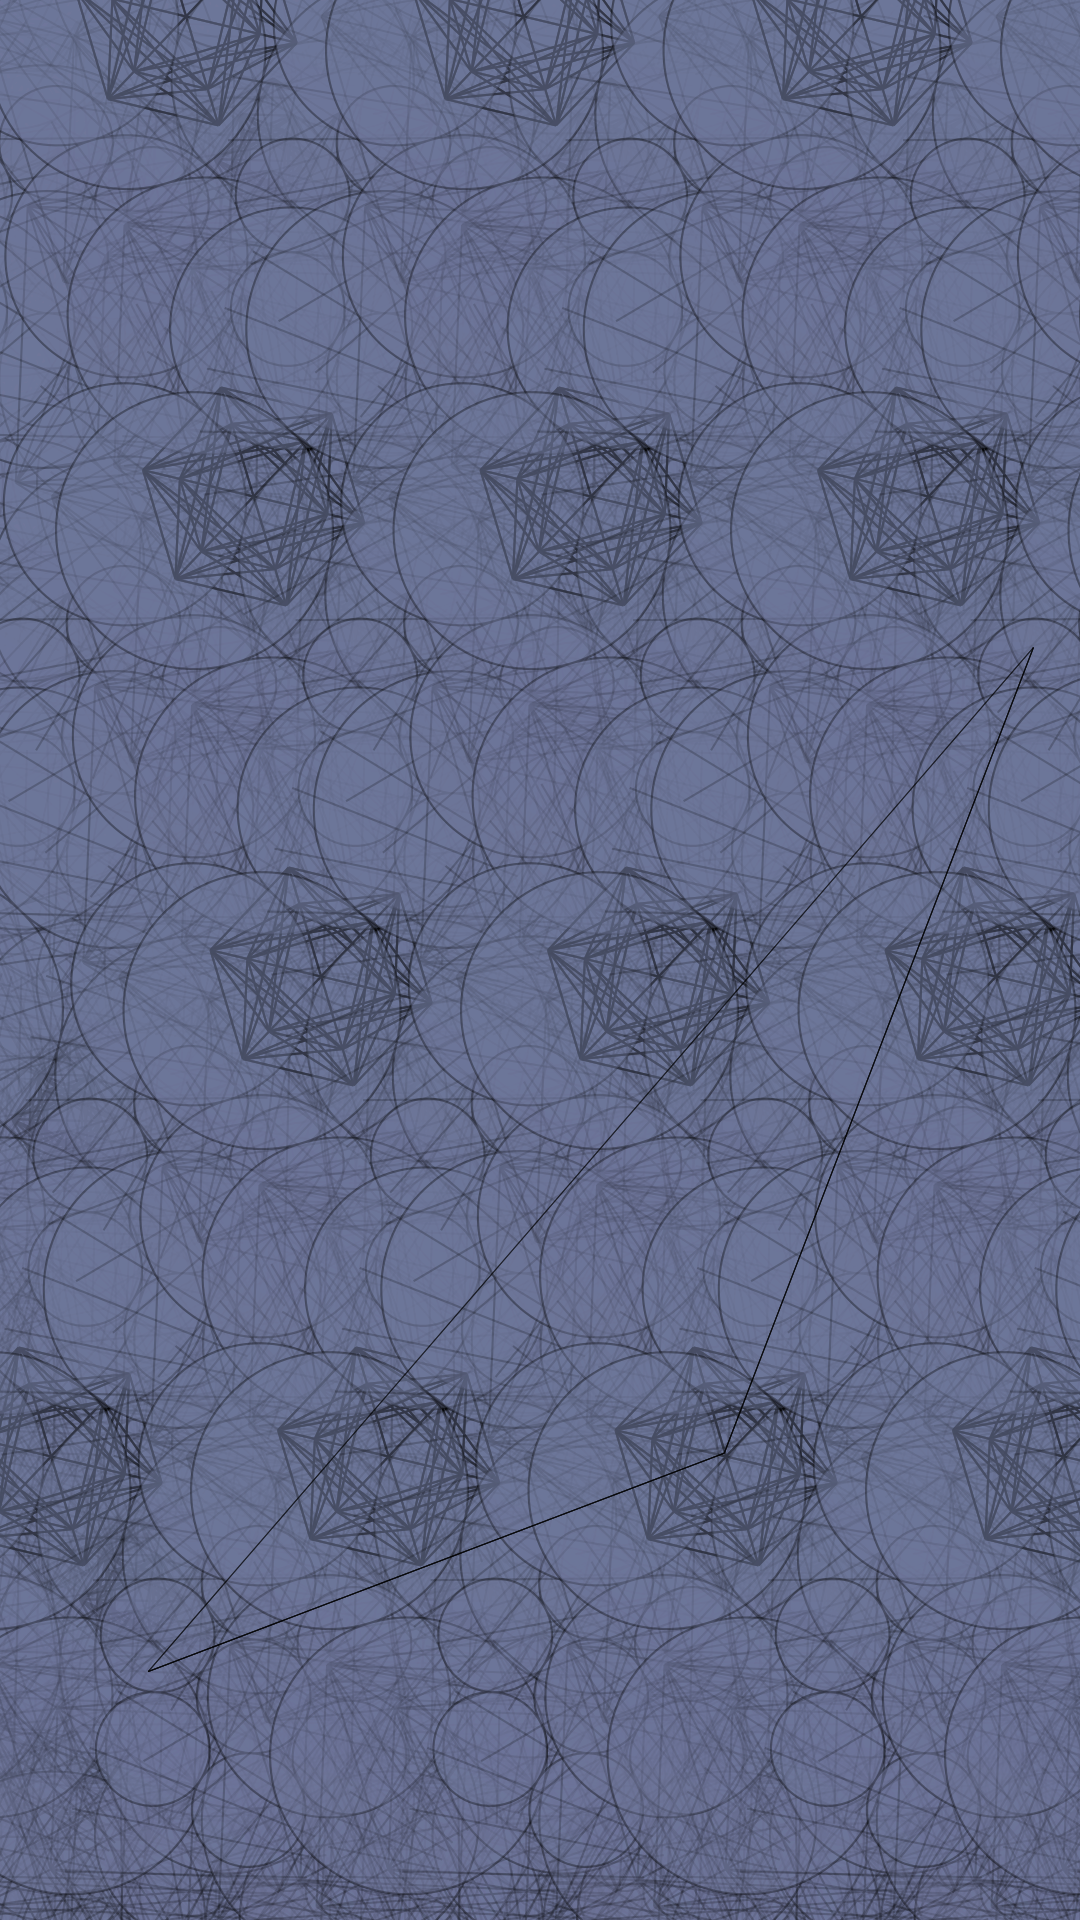
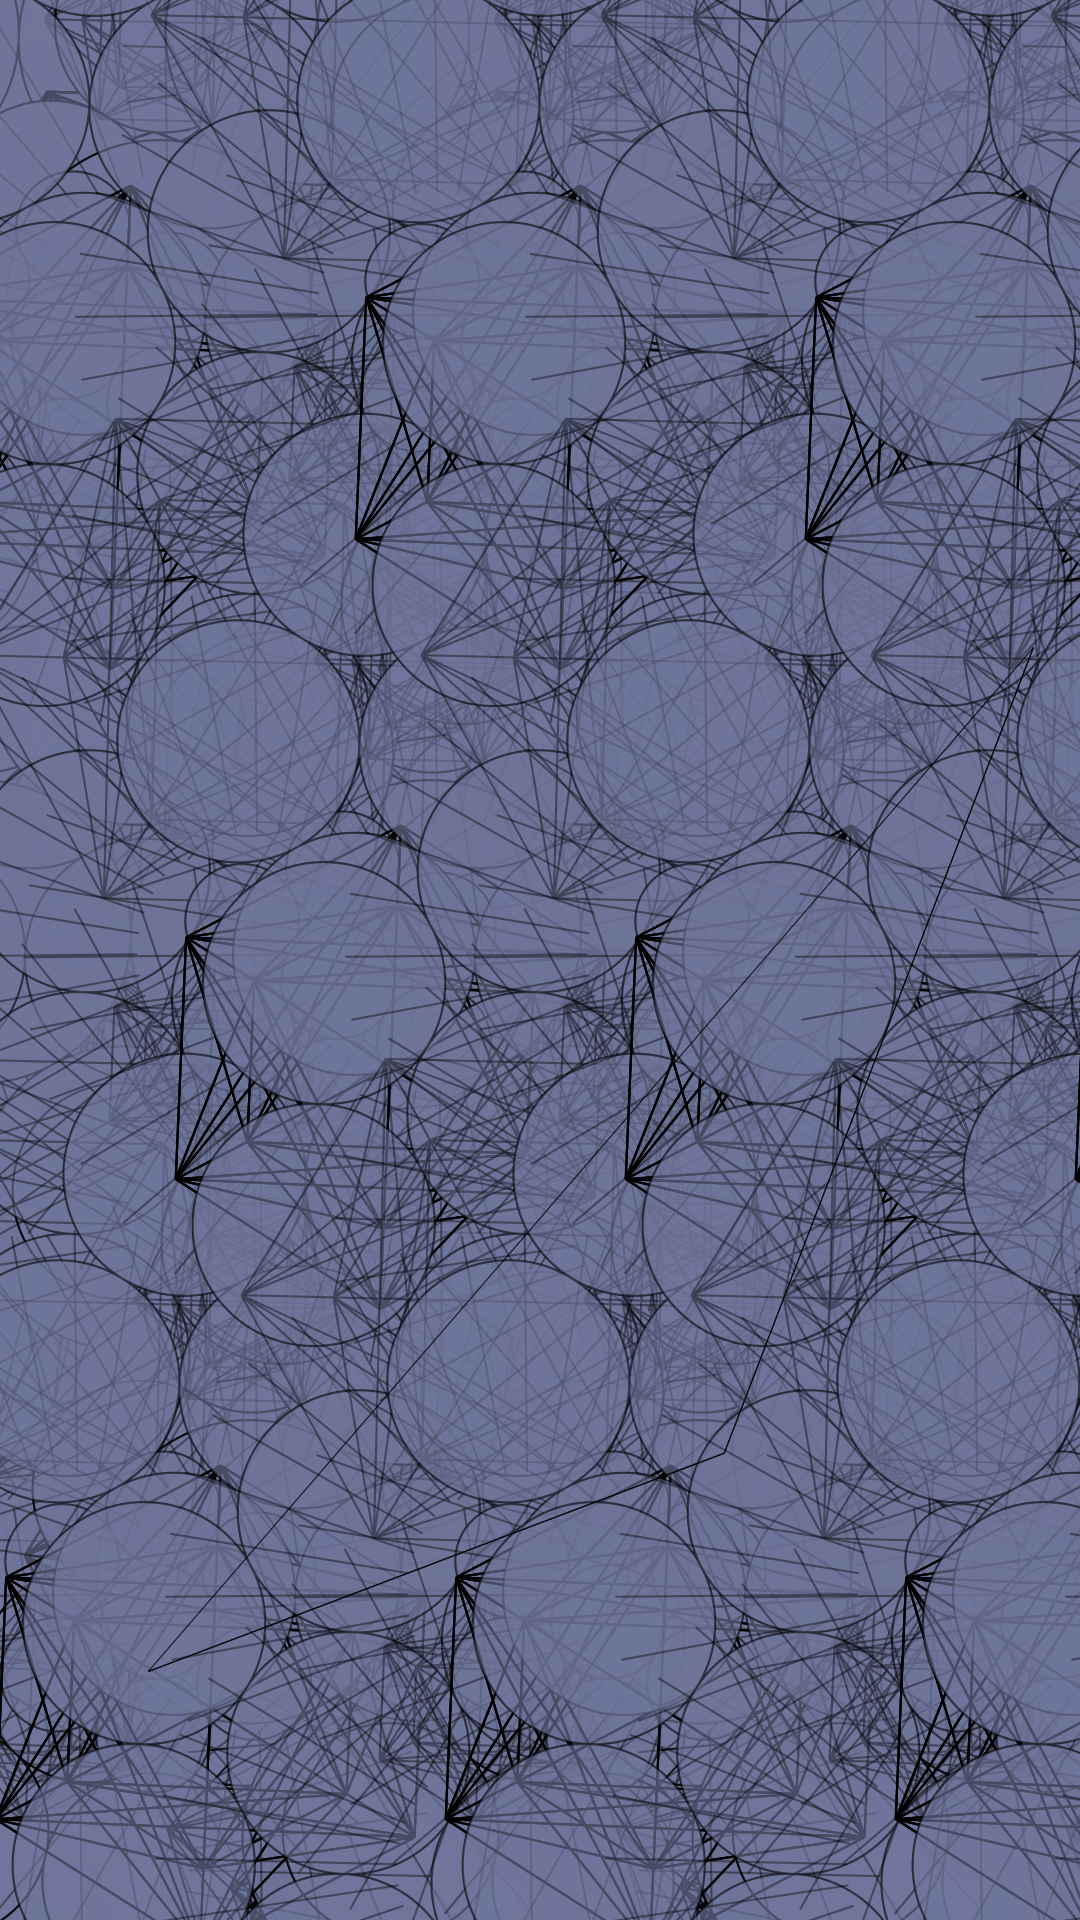
Update image layers and modify examples
Reduce `layers` from 8 to 2 in `generateImageFromHash` to optimize rendering performance. Update several example images to reflect changes in the rendering algorithm. This adjustment aims to enhance efficiency while maintaining image quality, ensuring a smoother experience for users.

diff --git a/src/index.js b/src/index.js
@@ -39,7 +39,7 @@ function generateImageFromHash(gitHash, label = "", config = {}) {
     width: 2048,
     height: 2048,
     gridSize: 12,
-    layers: 8,
+    layers: 2,
     minShapeSize: 20,
     maxShapeSize: 600,
     baseOpacity: 0.8,
